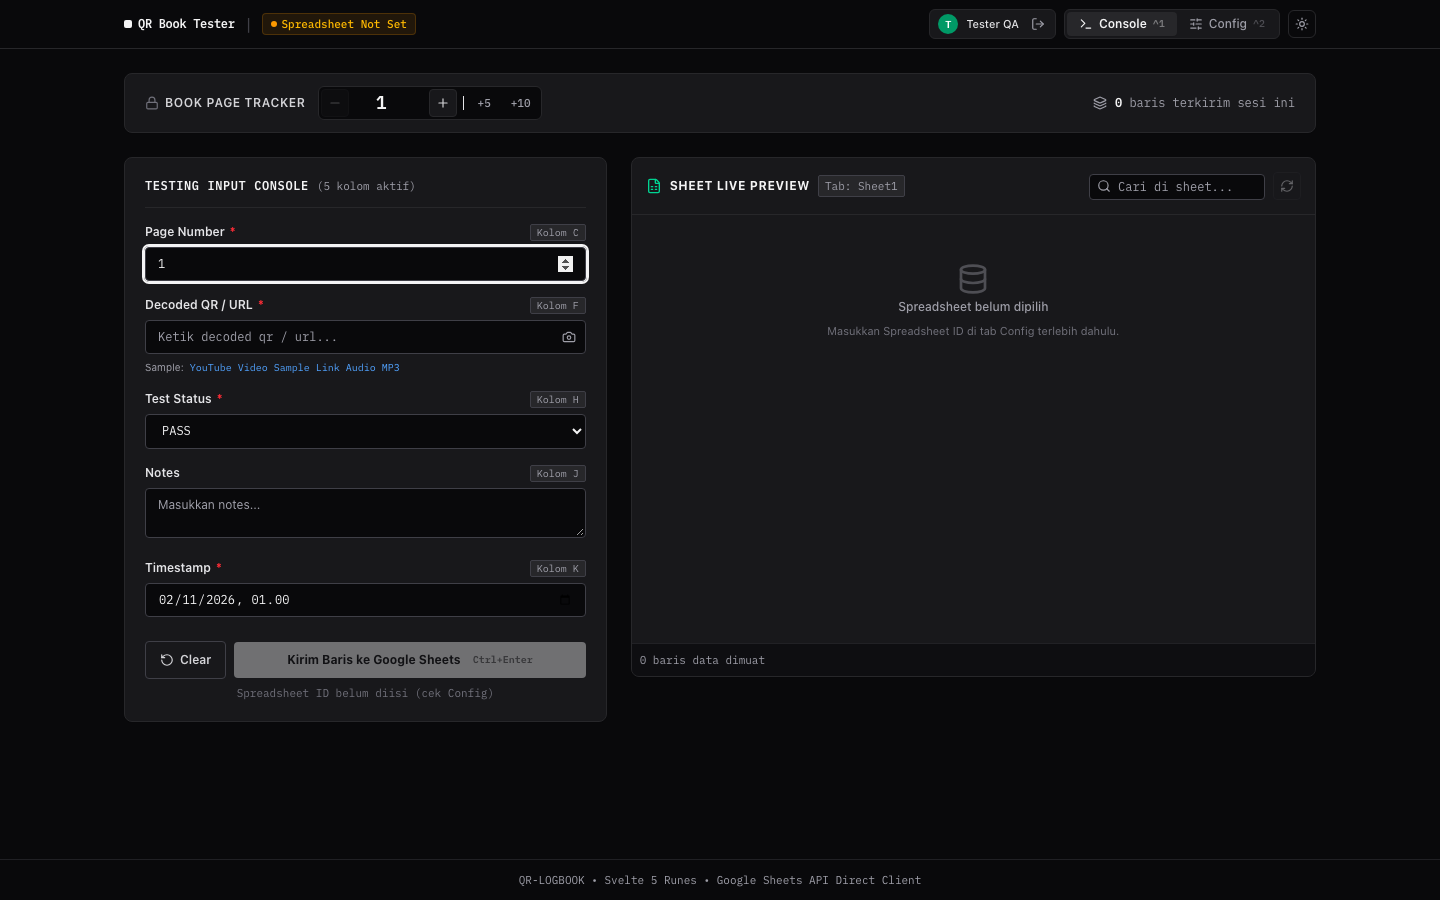
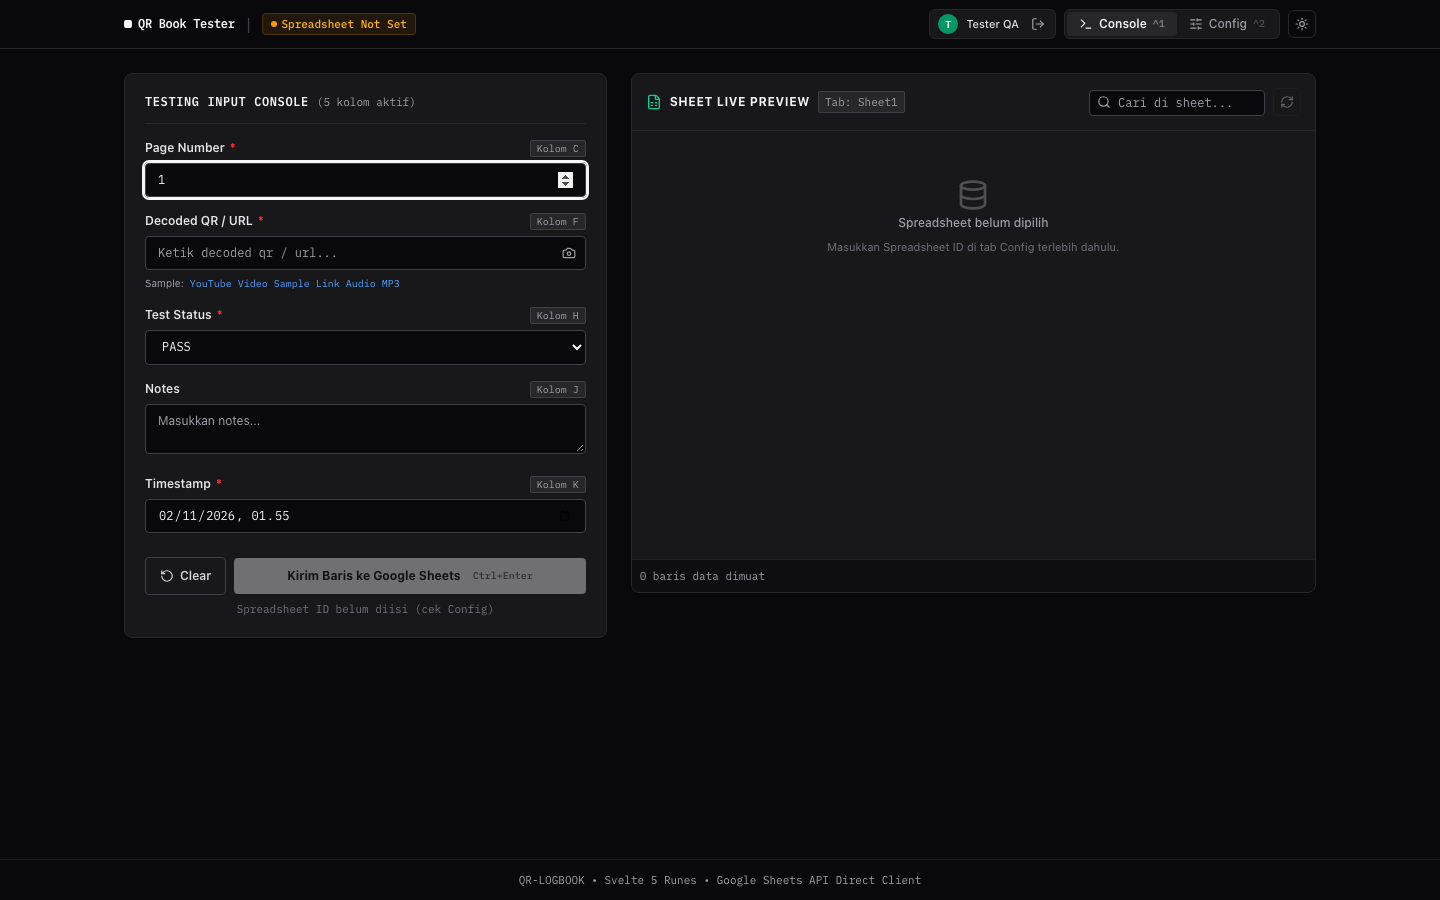
refactor(workspace): remove PageTracker component and sync pageNumber handling

diff --git a/e2e/qr-workflow.spec.ts b/e2e/qr-workflow.spec.ts
@@ -15,13 +15,10 @@ test.describe('QR Book Tester Workflow', () => {
       window.__appState?.setAuth({ email: 'tester@org.com', name: 'Tester QA' }, 'mock-oauth-token-xyz');
     });
 
-    // 3. Verify console dashboard & Page Tracker is now unlocked
-    const pageInput = page.getByLabel('Book page number input');
+    // 3. Verify console dashboard is now unlocked
+    await expect(page.locator('text=Testing Input Console')).toBeVisible();
+    const pageInput = page.locator('#field-pageNumber');
     await expect(pageInput).toHaveValue('1');
-
-    // Click +5 button
-    await page.getByRole('button', { name: '+5' }).click();
-    await expect(pageInput).toHaveValue('6');
 
     // 4. Verify live spreadsheet preview section is present
     await expect(page.locator('text=Sheet Live Preview')).toBeVisible();
@@ -40,7 +37,7 @@ test.describe('QR Book Tester Workflow', () => {
 
     // 6. Return to Testing Console
     await page.getByRole('button', { name: /Console/ }).click();
-    await expect(page.locator('text=Book Page Tracker')).toBeVisible();
+    await expect(page.locator('text=Testing Input Console')).toBeVisible();
 
     // Verify Clear button is present
     const clearBtn = page.getByRole('button', { name: 'Clear' });

diff --git a/src/lib/components/Workspace.svelte b/src/lib/components/Workspace.svelte
@@ -118,13 +118,6 @@
     }
   });
 
-  // Keep pageNumber in sync with page tracker
-  $effect(() => {
-    if (formValues['pageNumber'] !== undefined && formValues['pageNumber'] !== appState.currentPage) {
-      formValues['pageNumber'] = appState.currentPage;
-    }
-  });
-
   function initDefaultValues() {
     const todayIso = new Date().toISOString().split('T')[0];
     const nowIso = new Date().toISOString().slice(0, 16);
@@ -298,9 +291,14 @@
       }
     }
 
+    const pageNum = formValues['pageNumber'] ? Number(formValues['pageNumber']) : appState.currentPage;
+    if (!isNaN(pageNum) && pageNum > 0) {
+      appState.setPageNumber(pageNum);
+    }
+
     const newRecord: QRRecord = {
       recordId: generateRecordId(),
-      pageNumber: formValues['pageNumber'] ? Number(formValues['pageNumber']) : appState.currentPage,
+      pageNumber: pageNum,
       qrContent: String(formValues['qrContent'] || formValues[activeFields[0]?.id] || '').trim(),
       testStatus: (formValues['testStatus'] || 'PASS') as TestStatus,
       notes: String(formValues['notes'] || '').trim(),

diff --git a/src/App.svelte b/src/App.svelte
@@ -3,7 +3,6 @@
   import { appState } from './lib/store.svelte';
   import { initAuthSession } from './lib/google-auth';
   import Header from './lib/components/Header.svelte';
-  import PageTracker from './lib/components/PageTracker.svelte';
   import Workspace from './lib/components/Workspace.svelte';
   import SpreadsheetPreview from './lib/components/SpreadsheetPreview.svelte';
   import SettingsView from './lib/components/SettingsView.svelte';
@@ -54,9 +53,6 @@
     <!-- Main Container: Unified max-width across Console and Config (~1240px) -->
     <main class="flex-1 w-full max-w-[1240px] mx-auto px-4 sm:px-6 py-6 space-y-6">
       {#if currentView === 'testing'}
-        <!-- Slim Session Bar: Page Stepper & Session Scan Counter -->
-        <PageTracker />
-
         <!-- Testing Workspace Grid: ~5/12 for Pure Inputs & 7/12 for Live Sheet Preview -->
         <div class="grid grid-cols-1 lg:grid-cols-12 gap-6 items-start">
           <!-- Left: Pure Input Console (Synced 100% with Config & Sheet Columns) -->
